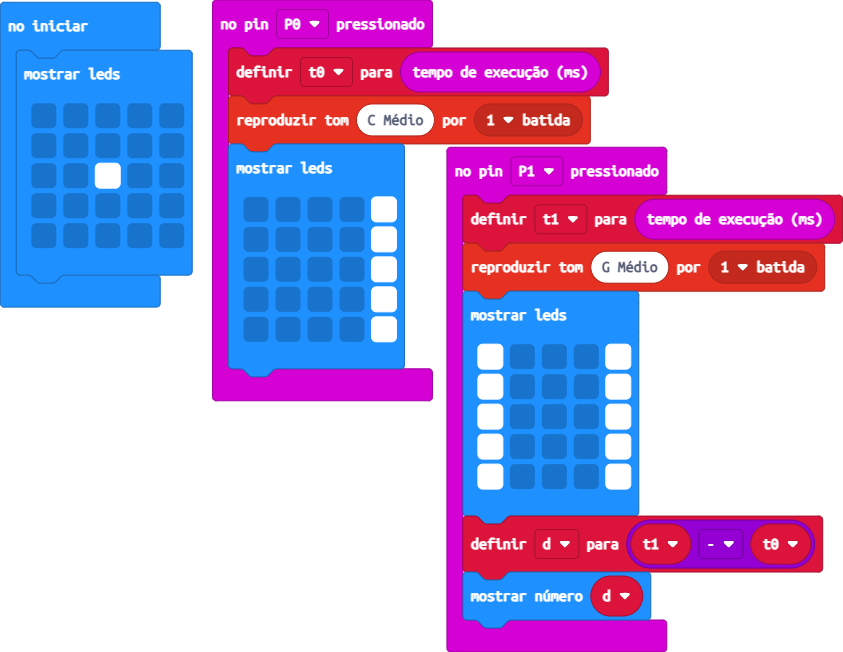
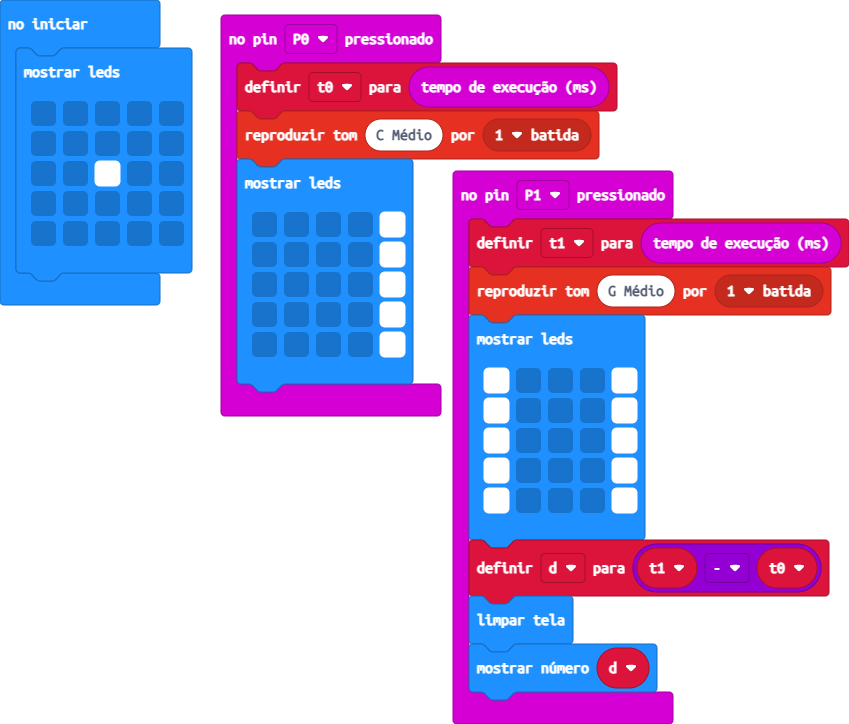
Atualizar 'main.ts, main.blocks'

Changed region(s): [[0.0, 0.0, 1.0, 1.0]]

diff --git a/main.ts b/main.ts
@@ -20,6 +20,7 @@ input.onPinPressed(TouchPin.P1, function () {
         # . . . #
         `)
     d = t1 - t0
+    basic.clearScreen()
     basic.showNumber(d)
 })
 let d = 0
